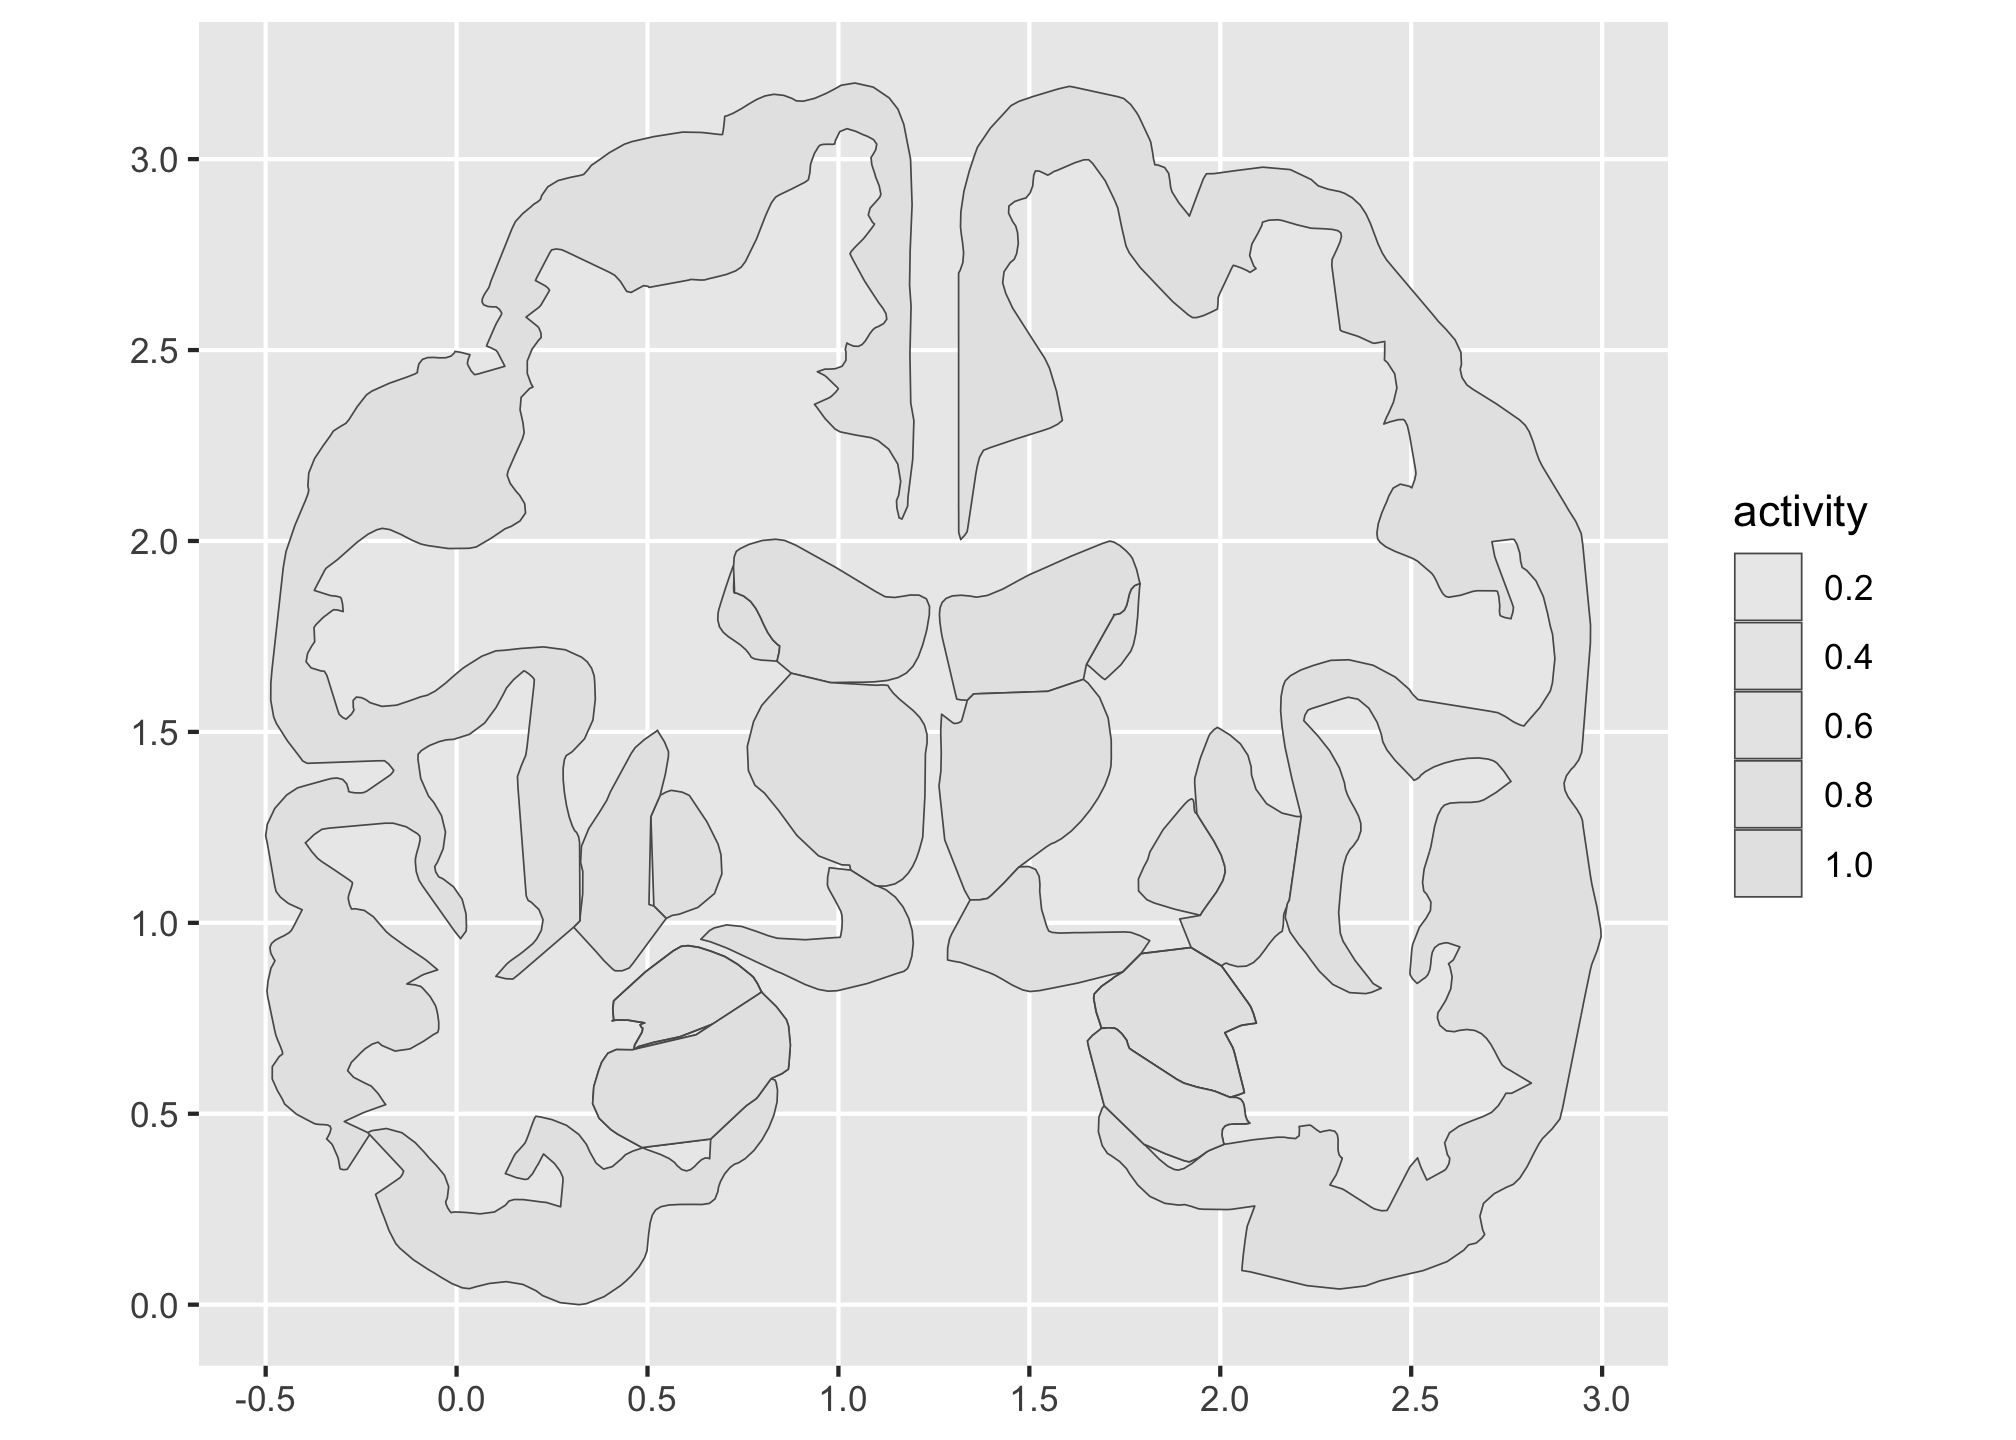
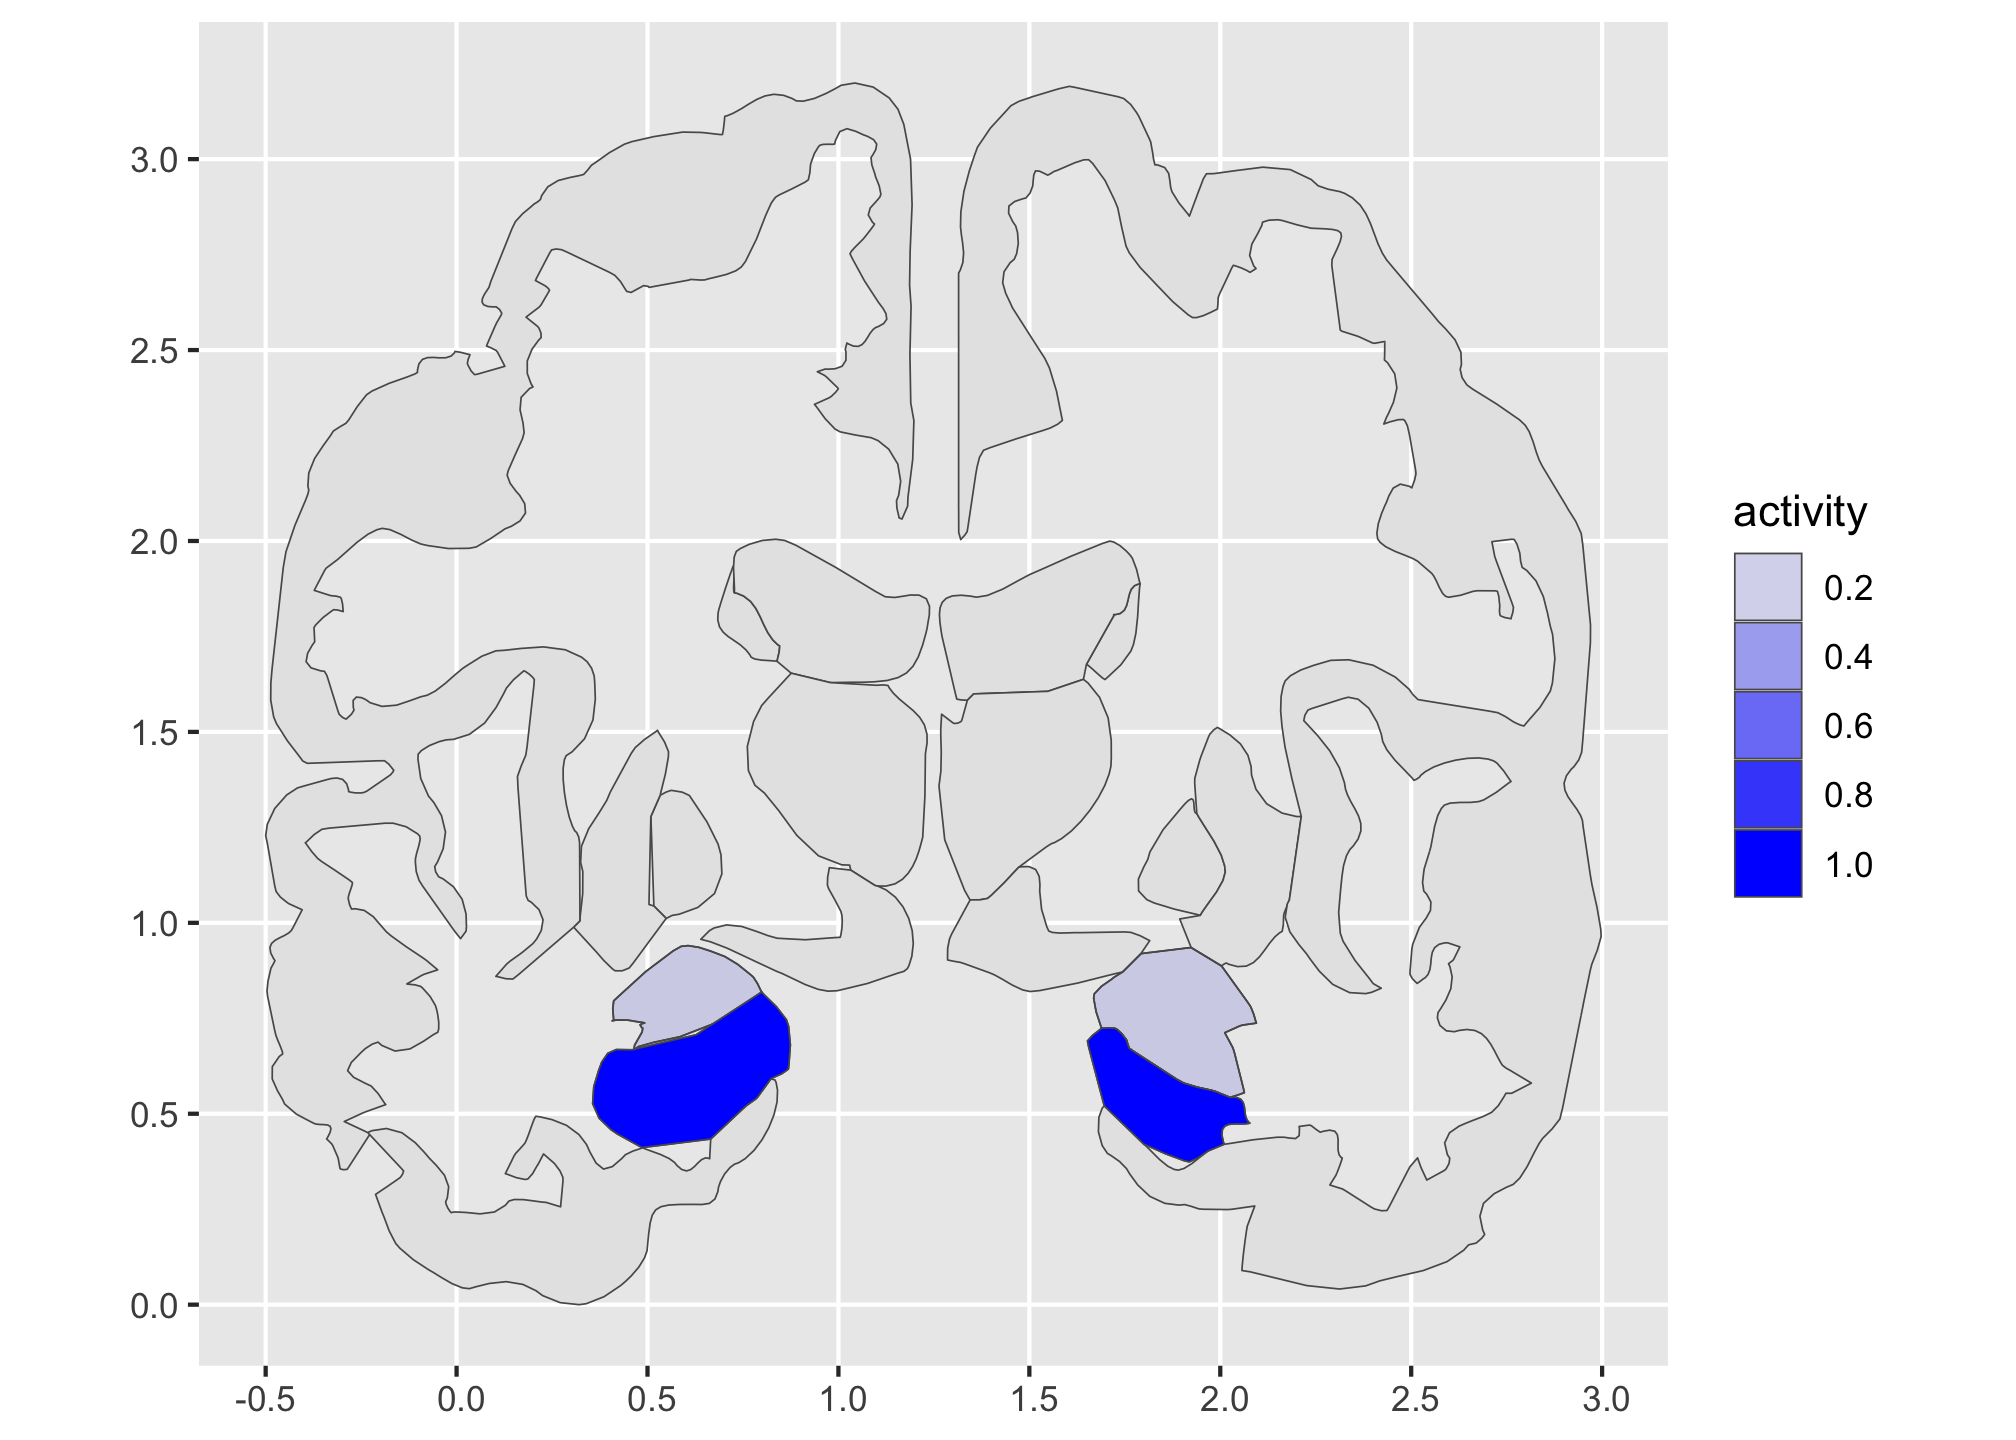
geom example - the puzzle was related to the fill color of the geom and stamp being the same - so looked like geom wasn't working, but it was there and layering.

Changed region(s): [[0.8438, 0.4375, 0.9062, 0.625], [0.2812, 0.6875, 0.4062, 0.8125], [0.5312, 0.7188, 0.625, 0.8125]]

diff --git a/README.md b/README.md
@@ -110,7 +110,9 @@ last_plot() +
 
 <img src="man/figures/README-unnamed-chunk-4-3.png" width="100%" />
 
-Hmmm… below not working… Arg! puzzles.
+Hmmm… below not working… Arg! puzzles - Oops it is working but, not
+apparent when I had alpha showing activity w/ no color… Maybe should
+change default fill of stamp v. geom in ggregions.
 
 ``` r
 coronal_ref_data |> head()
@@ -135,29 +137,13 @@ tribble(~region_name, ~activity,
   ggplot() + 
   aes(region = region_name,
       alpha = activity) +
-  stamp_seg() + 
-  geom_seg()
+  stamp_seg() +
+  geom_seg(fill = "blue")
 #> Coordinate system already present.
 #> ℹ Adding new coordinate system, which will replace the existing one.
 #> Joining with `by = join_by(region)`
 ```
 
 <img src="man/figures/README-unnamed-chunk-5-1.png" width="100%" />
-
-``` r
-
-
-layer_data(i = 2)
-#> Joining with `by = join_by(region)`
-#>        region                       geometry          id xmin    xmax ymin
-#> 1    amygdala MULTIPOLYGON (((1.92373 0.9...    amygdala -0.5 2.99743    0
-#> 2 hippocampus MULTIPOLYGON (((0.82329 0.5... hippocampus -0.5 2.99743    0
-#>      ymax         x       y alpha PANEL group       label linetype stroke
-#> 1 3.19939 1.8889430 0.73929   0.1     1     1    amygdala        1    0.5
-#> 2 3.19939 0.6193356 0.61480   1.0     1     2 hippocampus        1    0.5
-#>      colour      fill linewidth
-#> 1 #595959FF #E5E5E5FF       0.2
-#> 2 #595959FF #E5E5E5FF       0.2
-```
 
 ![](https://images.unsplash.com/photo-1626012109496-21f579f648dd?q=80&w=1160&auto=format&fit=crop&ixlib=rb-4.1.0&ixid=M3wxMjA3fDB8MHxwaG90by1wYWdlfHx8fGVufDB8fHx8fA%3D%3D)
